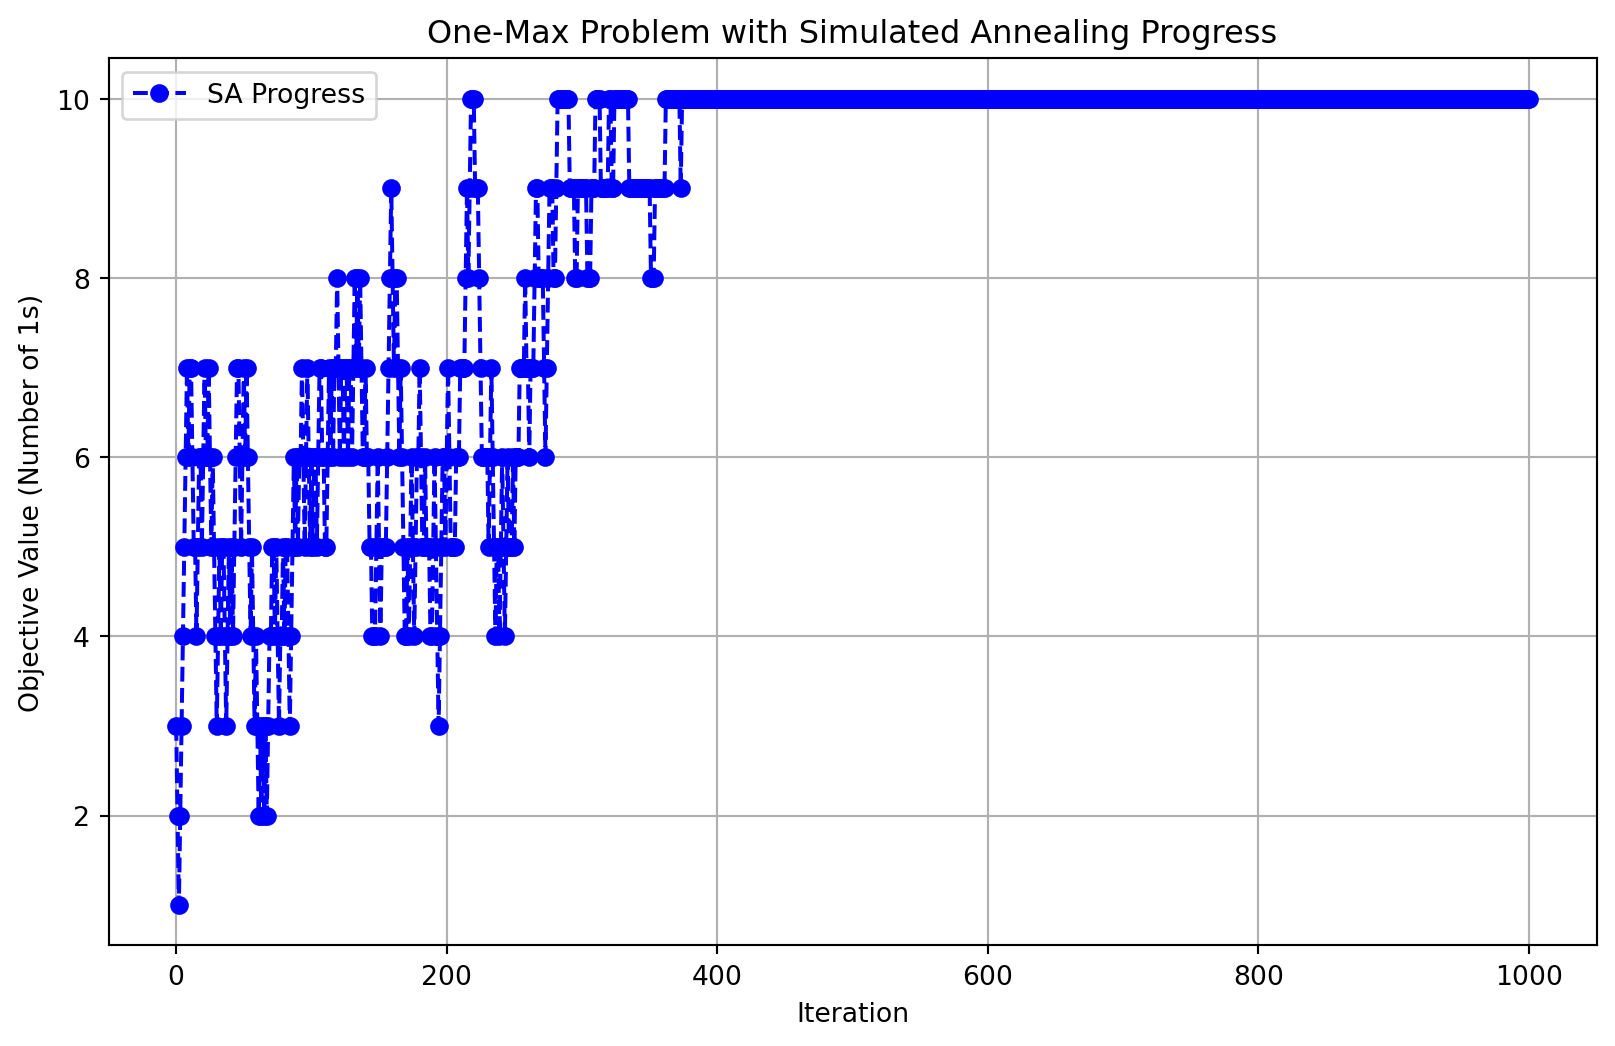
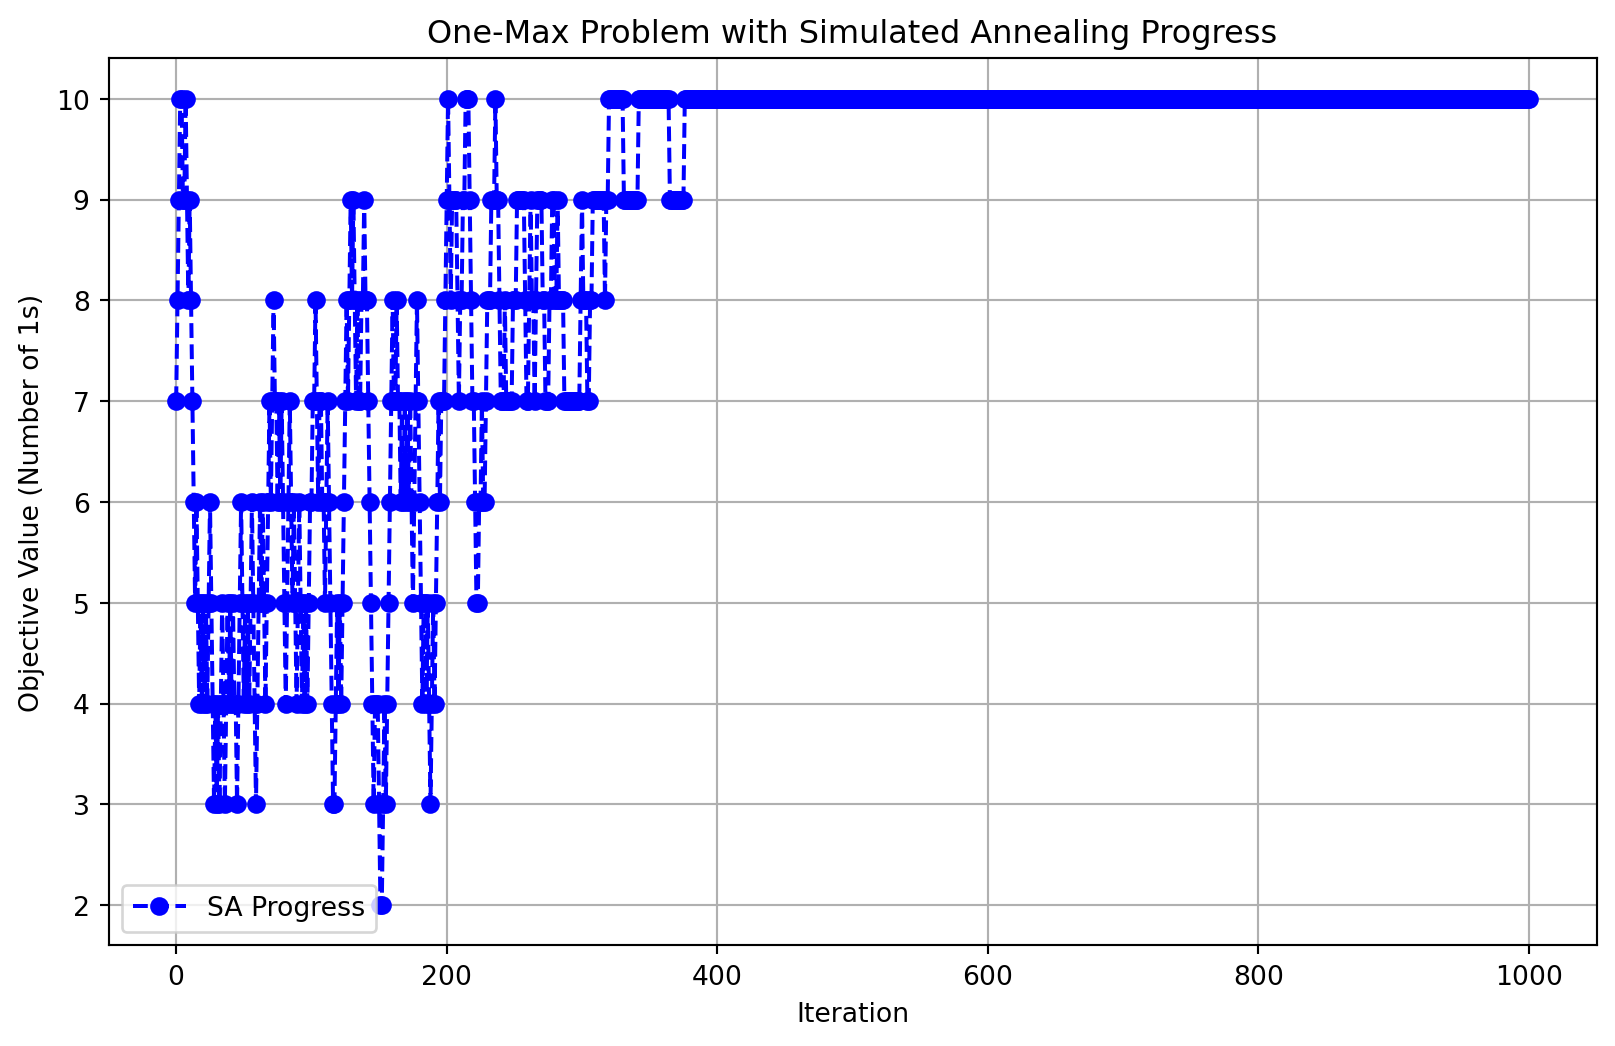
update sa

Changed region(s): [[0.031, 0.0612, 0.9907, 0.8872], [0.031, 0.2447, 0.0619, 0.3059]]

diff --git a/docs/sa.html b/docs/sa.html
@@ -568,13 +568,13 @@ window.Quarto = {
 </ul>
 <section id="examples-of-how-value-can-change" class="level2">
 <h2 class="anchored" data-anchor-id="examples-of-how-value-can-change">Examples of How Value Can Change</h2>
-<div class="quarto-figure quarto-figure-center">
-<figure class="figure">
-<p><img src="Pictures/sa3.png" title="SA Changing Values" class="img-fluid figure-img"></p>
-<figcaption>SA Changing Values</figcaption>
-</figure>
-</div>
+<p><img src="Pictures/sa3.png" title="SA Changing Values" class="img-fluid" alt="SA Changing Values"> * Minimization: + If <span class="math inline">\(\Delta_f^{\text{min}}\)</span> is negative, we always accept (better solution). + If <span class="math inline">\(\Delta_f^{\text{min}}\)</span> is positive, accept with probability <span class="math inline">\(paminp_a^{\text{min}}pamin\)</span>.</p>
 <ul>
+<li>Maximization:
+<ul>
+<li>If <span class="math inline">\(\Delta_f^{\text{max}}\)</span> is positive, we always accept (better solution).</li>
+<li>If <span class="math inline">\(\Delta_f^{\text{max}}\)</span> is negative, accept with probability <span class="math inline">\(pamaxp_a^{\text{max}}\)</span>.</li>
+</ul></li>
 <li>In this case, <span class="math inline">\(p_a^{\text{max}}\)</span>=.329 and 0.007 for <span class="math inline">\({\Psi_t}\)</span> = .9 and 0.2, respectively. This indicates that a lower temperature Image implies a smaller probability Image to accept a non-improving candidate solution as the current solution.</li>
 <li>The value of <span class="math inline">\(f_s\)</span> goes from 2.0 to 1.1, the value of <span class="math inline">\(p_a^{\text{max}}\)</span> goes from 0.329 up to 0.895. This means that in case <span class="math inline">\(f(\nu)\)</span> is worse than <span class="math inline">\(f(s)\)</span>, a smaller <span class="math inline">\(\Delta_f^{\text{max}}\)</span> implies a higher probability <span class="math inline">\(p_a^{\text{max}}\)</span> to accept a non-improving candidate solution as the current solution.</li>
 <li>Higher temperatures} (<span class="math inline">\(\Psi_t = 0.9\)</span>) allow higher acceptance of worse solutions.
@@ -636,7 +636,7 @@ window.Quarto = {
 <h1>Making a Model: One Max with SA</h1>
 <section id="imports-global-variables" class="level2">
 <h2 class="anchored" data-anchor-id="imports-global-variables">Imports, Global Variables</h2>
-<div id="305c6d90" class="cell" data-execution_count="1">
+<div id="2ff1ffc0" class="cell" data-execution_count="1">
 <div class="sourceCode cell-code" id="cb1"><pre class="sourceCode python code-with-copy"><code class="sourceCode python"><span id="cb1-1"><a href="#cb1-1" aria-hidden="true" tabindex="-1"></a><span class="co">##Simulated Annealing One-Max Example</span></span>
 <span id="cb1-2"><a href="#cb1-2" aria-hidden="true" tabindex="-1"></a><span class="im">import</span> numpy <span class="im">as</span> np</span>
 <span id="cb1-3"><a href="#cb1-3" aria-hidden="true" tabindex="-1"></a><span class="im">import</span> random</span>
@@ -658,7 +658,7 @@ window.Quarto = {
 <li>The initial solution is evaluated using the One-Max function (evaluate) to calculate its fitness (i.e., the sum of 1’s in the array).</li>
 <li>The function returns the initial solution and its evaluated fitness.</li>
 </ul>
-<div id="471284f9" class="cell" data-execution_count="2">
+<div id="9faebe02" class="cell" data-execution_count="2">
 <div class="sourceCode cell-code" id="cb2"><pre class="sourceCode python code-with-copy"><code class="sourceCode python"><span id="cb2-1"><a href="#cb2-1" aria-hidden="true" tabindex="-1"></a><span class="co"># Initialization function (I)</span></span>
 <span id="cb2-2"><a href="#cb2-2" aria-hidden="true" tabindex="-1"></a><span class="kw">def</span> init_sa(num_bits):</span>
 <span id="cb2-3"><a href="#cb2-3" aria-hidden="true" tabindex="-1"></a>    sol <span class="op">=</span> np.random.randint(<span class="dv">0</span>, <span class="dv">2</span>, num_bits)</span>
@@ -671,7 +671,7 @@ window.Quarto = {
 <li>This is done by randomly selecting an index in the binary array and toggling the bit (changing 1 to 0 or 0 to 1).</li>
 <li>This new solution represents the neighboring candidate that will be evaluated next, which is a small random change to the current solution.</li>
 </ul>
-<div id="aa450547" class="cell" data-execution_count="3">
+<div id="d3eef23d" class="cell" data-execution_count="3">
 <div class="sourceCode cell-code" id="cb3"><pre class="sourceCode python code-with-copy"><code class="sourceCode python"><span id="cb3-1"><a href="#cb3-1" aria-hidden="true" tabindex="-1"></a><span class="co"># Transition function (T)</span></span>
 <span id="cb3-2"><a href="#cb3-2" aria-hidden="true" tabindex="-1"></a><span class="kw">def</span> transit(sol):</span>
 <span id="cb3-3"><a href="#cb3-3" aria-hidden="true" tabindex="-1"></a>    new_sol <span class="op">=</span> sol.copy()</span>
@@ -695,7 +695,7 @@ window.Quarto = {
 <ul>
 <li>The evaluate function calculates the fitness of the current solution by summing up the number of 1’s in the binary array (sol).The One-Max problem aims to maximize this value, with the goal being to find the solution with all bits set to 1.</li>
 </ul>
-<div id="6c7608da" class="cell" data-execution_count="4">
+<div id="1bd65a06" class="cell" data-execution_count="4">
 <div class="sourceCode cell-code" id="cb4"><pre class="sourceCode python code-with-copy"><code class="sourceCode python"><span id="cb4-1"><a href="#cb4-1" aria-hidden="true" tabindex="-1"></a><span class="co"># Evaluation Function (E): One-max function</span></span>
 <span id="cb4-2"><a href="#cb4-2" aria-hidden="true" tabindex="-1"></a><span class="kw">def</span> evaluate(sol):</span>
 <span id="cb4-3"><a href="#cb4-3" aria-hidden="true" tabindex="-1"></a>    <span class="cf">return</span> np.<span class="bu">sum</span>(sol)</span></code><button title="Copy to Clipboard" class="code-copy-button"><i class="bi"></i></button></pre></div>
@@ -713,7 +713,7 @@ window.Quarto = {
 </ul></li>
 <li>The function returns True if the new solution is accepted, otherwise False.</li>
 </ul>
-<div id="d6ec4f91" class="cell" data-execution_count="5">
+<div id="86cb10ec" class="cell" data-execution_count="5">
 <div class="sourceCode cell-code" id="cb5"><pre class="sourceCode python code-with-copy"><code class="sourceCode python"><span id="cb5-1"><a href="#cb5-1" aria-hidden="true" tabindex="-1"></a><span class="co"># Determination function for SA (D)</span></span>
 <span id="cb5-2"><a href="#cb5-2" aria-hidden="true" tabindex="-1"></a><span class="kw">def</span> determine(neighbor_value, current_value, temperature):</span>
 <span id="cb5-3"><a href="#cb5-3" aria-hidden="true" tabindex="-1"></a>    <span class="cf">if</span> neighbor_value <span class="op">&gt;</span> current_value:</span>
@@ -732,21 +732,22 @@ window.Quarto = {
 <section id="run-function" class="level3">
 <h3 class="anchored" data-anchor-id="run-function">Run Function</h3>
 <ul>
-<li>The init_sa function generates a random initial solution (current_sol) with a binary array of length num_bits.</li>
-<li>This solution is evaluated using the evaluate function, which counts the number of 1’s in the array.</li>
-<li>The current solution is also set as the best solution initially, since no other solutions have been explored yet.</li>
-<li>The temperature is set to initial_temp, which controls the probability of accepting worse solutions in the early stages of the algorithm.</li>
-<li>The list value_history is initialized to store the value (fitness) of the current solution over time.</li>
-<li>This main loop runs until the temperature drops below min_temp (0.0001) or the maximum number of evals (max_evals, default 1000) is reached. Each evaluation represents one step in the simulated annealing process.</li>
-<li>A neighboring solution (neighbor_sol) is generated by the transit function, which randomly flips one bit in the current solution. * This represents exploring a new area of the search space close to the current solution.</li>
-<li>The neighboring solution is evaluated using the evaluate function, which calculates its fitness (i.e., the number of 1’s in the binary array). This value is compared to the current solution’s fitness.</li>
-<li>The determine function decides whether to accept the neighboring solution</li>
-<li>The current solution’s fitness is appended to value_history to keep a record of the solution’s fitness across evaluations. This will later be used to plot the progress of the algorithm.</li>
-<li>After each evaluation, the temperature is reduced by multiplying it by the cooling_rate (default 0.99). This cooling process gradually reduces the probability of accepting worse solutions, making the algorithm behave more like greedy hill climbing toward the end.</li>
-<li>The number of evals is incremented.</li>
-<li>After the loop terminates (either because the temperature has cooled sufficiently or the maximum number of evaluations has been reached), the function returns:best_sol: The best solution found during the process.best_value: The fitness value of the best solution.value_history: A list of the fitness values over time, useful for visualizing the algorithm’s progress.</li>
+<li><p>The init_sa function generates a random initial solution (current_sol) with a binary array of length num_bits.</p></li>
+<li><p>This solution is evaluated using the evaluate function, which counts the number of 1’s in the array.</p></li>
+<li><p>The current solution is also set as the best solution initially, since no other solutions have been explored yet.</p></li>
+<li><p>The temperature is set to initial_temp, which controls the probability of accepting worse solutions in the early stages of the algorithm.</p></li>
+<li><p>The list value_history is initialized to store the value (fitness) of the current solution over time.</p></li>
+<li><p>This main loop runs until the temperature drops below min_temp (0.0001) or the maximum number of evals (max_evals, default 1000) is reached. Each evaluation represents one step in the simulated annealing process.</p></li>
+<li><p>A neighboring solution (neighbor_sol) is generated by the transit function, which randomly flips one bit in the current solution.</p></li>
+<li><p>This represents exploring a new area of the search space close to the current solution.</p></li>
+<li><p>The neighboring solution is evaluated using the evaluate function, which calculates its fitness (i.e., the number of 1’s in the binary array). This value is compared to the current solution’s fitness.</p></li>
+<li><p>The determine function decides whether to accept the neighboring solution</p></li>
+<li><p>The current solution’s fitness is appended to value_history to keep a record of the solution’s fitness across evaluations. This will later be used to plot the progress of the algorithm.</p></li>
+<li><p>After each evaluation, the temperature is reduced by multiplying it by the cooling_rate (default 0.99). This cooling process gradually reduces the probability of accepting worse solutions, making the algorithm behave more like greedy hill climbing toward the end.</p></li>
+<li><p>The number of evals is incremented.</p></li>
+<li><p>After the loop terminates (either because the temperature has cooled sufficiently or the maximum number of evaluations has been reached), the function returns: 1) best_sol: The best solution found during the process. 2) best_value: The fitness value of the best solution. 3) value_history: A list of the fitness values over time, useful for visualizing the algorithm’s progress.</p></li>
 </ul>
-<div id="82230db3" class="cell" data-execution_count="6">
+<div id="6cd61d17" class="cell" data-execution_count="6">
 <div class="sourceCode cell-code" id="cb6"><pre class="sourceCode python code-with-copy"><code class="sourceCode python"><span id="cb6-1"><a href="#cb6-1" aria-hidden="true" tabindex="-1"></a><span class="co"># Simulated Annealing (SA) function</span></span>
 <span id="cb6-2"><a href="#cb6-2" aria-hidden="true" tabindex="-1"></a><span class="kw">def</span> simulated_annealing(num_bits):</span>
 <span id="cb6-3"><a href="#cb6-3" aria-hidden="true" tabindex="-1"></a>    current_sol, current_value <span class="op">=</span> init_sa(num_bits)</span>
@@ -788,7 +789,7 @@ window.Quarto = {
 <li>The temperature gradually cools down, reducing the chance of accepting worse solutions as the algorithm progresses.</li>
 <li>Finally, the results are printed and plotted for visual analysis.</li>
 </ul>
-<div id="dc42681d" class="cell" data-execution_count="7">
+<div id="a985cf98" class="cell" data-execution_count="7">
 <div class="sourceCode cell-code" id="cb7"><pre class="sourceCode python code-with-copy"><code class="sourceCode python"><span id="cb7-1"><a href="#cb7-1" aria-hidden="true" tabindex="-1"></a><span class="co"># Main execution</span></span>
 <span id="cb7-2"><a href="#cb7-2" aria-hidden="true" tabindex="-1"></a>start_time <span class="op">=</span> time.time()</span>
 <span id="cb7-3"><a href="#cb7-3" aria-hidden="true" tabindex="-1"></a>best_sol, best_value, value_history <span class="op">=</span> simulated_annealing(num_bits)</span>
@@ -799,7 +800,7 @@ window.Quarto = {
 </section>
 <section id="output" class="level2">
 <h2 class="anchored" data-anchor-id="output">Output</h2>
-<div id="de744698" class="cell" data-execution_count="8">
+<div id="ba7c400a" class="cell" data-execution_count="8">
 <div class="sourceCode cell-code" id="cb8"><pre class="sourceCode python code-with-copy"><code class="sourceCode python"><span id="cb8-1"><a href="#cb8-1" aria-hidden="true" tabindex="-1"></a><span class="co"># Output results (O)</span></span>
 <span id="cb8-2"><a href="#cb8-2" aria-hidden="true" tabindex="-1"></a><span class="bu">print</span>(<span class="ss">f"Best solution: </span><span class="sc">{</span>best_sol<span class="sc">}</span><span class="ss">"</span>)</span>
 <span id="cb8-3"><a href="#cb8-3" aria-hidden="true" tabindex="-1"></a><span class="bu">print</span>(<span class="ss">f"Best value (number of 1s): </span><span class="sc">{</span>best_value<span class="sc">}</span><span class="ss">"</span>)</span>
@@ -817,7 +818,7 @@ window.Quarto = {
 <div class="cell-output cell-output-stdout">
 <pre><code>Best solution: [1 1 1 1 1 1 1 1 1 1]
 Best value (number of 1s): 10
-Execution time: 0.007513 seconds</code></pre>
+Execution time: 0.014504 seconds</code></pre>
 </div>
 <div class="cell-output cell-output-display">
 <div>
@@ -839,7 +840,7 @@ Execution time: 0.007513 seconds</code></pre>
 </ul>
 <section id="example-results" class="level2">
 <h2 class="anchored" data-anchor-id="example-results">Example Results</h2>
-<div id="fdde1537" class="cell" data-execution_count="9">
+<div id="2722ac2a" class="cell" data-execution_count="9">
 <div class="sourceCode cell-code" id="cb10"><pre class="sourceCode python code-with-copy"><code class="sourceCode python"><span id="cb10-1"><a href="#cb10-1" aria-hidden="true" tabindex="-1"></a><span class="im">import</span> numpy <span class="im">as</span> np</span>
 <span id="cb10-2"><a href="#cb10-2" aria-hidden="true" tabindex="-1"></a><span class="im">import</span> random</span>
 <span id="cb10-3"><a href="#cb10-3" aria-hidden="true" tabindex="-1"></a><span class="im">import</span> math</span>
@@ -934,9 +935,9 @@ Execution time: 0.007513 seconds</code></pre>
 <span id="cb10-92"><a href="#cb10-92" aria-hidden="true" tabindex="-1"></a>plt.grid(<span class="va">True</span>)</span>
 <span id="cb10-93"><a href="#cb10-93" aria-hidden="true" tabindex="-1"></a>plt.show()</span></code><button title="Copy to Clipboard" class="code-copy-button"><i class="bi"></i></button></pre></div>
 <div class="cell-output cell-output-stdout">
-<pre><code>Optimal x: 0.0012025215176116877
-Optimal value: 0.004887096964573789
-Execution time: 0.012532 seconds</code></pre>
+<pre><code>Optimal x: 0.0021528049168269003
+Optimal value: 0.008858026770152794
+Execution time: 0.016262 seconds</code></pre>
 </div>
 <div class="cell-output cell-output-display">
 <div>
@@ -988,7 +989,7 @@ Execution time: 0.012532 seconds</code></pre>
 </section>
 <section id="portfolio-diversification-with-sa" class="level1">
 <h1>Portfolio Diversification With SA</h1>
-<div id="67cf1270" class="cell" data-execution_count="10">
+<div id="c135c772" class="cell" data-execution_count="10">
 <div class="sourceCode cell-code" id="cb12"><pre class="sourceCode python code-with-copy"><code class="sourceCode python"><span id="cb12-1"><a href="#cb12-1" aria-hidden="true" tabindex="-1"></a><span class="co">#Simulated Annealing Finance Example</span></span>
 <span id="cb12-2"><a href="#cb12-2" aria-hidden="true" tabindex="-1"></a></span>
 <span id="cb12-3"><a href="#cb12-3" aria-hidden="true" tabindex="-1"></a><span class="im">import</span> yfinance <span class="im">as</span> yf</span>
@@ -1093,29 +1094,52 @@ Execution time: 0.012532 seconds</code></pre>
 <span id="cb12-102"><a href="#cb12-102" aria-hidden="true" tabindex="-1"></a><span class="bu">print</span>(<span class="ss">f"Best Sharpe Ratio: </span><span class="sc">{</span>best_sharpe<span class="sc">:.4f}</span><span class="ss">"</span>)</span>
 <span id="cb12-103"><a href="#cb12-103" aria-hidden="true" tabindex="-1"></a><span class="bu">print</span>(<span class="ss">f"Execution time: </span><span class="sc">{</span>execution_time<span class="sc">:.6f}</span><span class="ss"> seconds"</span>)</span></code><button title="Copy to Clipboard" class="code-copy-button"><i class="bi"></i></button></pre></div>
 <div class="cell-output cell-output-stderr">
-<pre><code>[                       0%                       ][**********            20%                       ]  2 of 10 completed[**************        30%                       ]  3 of 10 completed[*******************   40%                       ]  4 of 10 completed[*******************   40%                       ]  4 of 10 completed[**********************60%****                   ]  6 of 10 completed[**********************70%*********              ]  7 of 10 completed[**********************80%*************          ]  8 of 10 completed[**********************90%******************     ]  9 of 10 completed[*********************100%***********************]  10 of 10 completed</code></pre>
+<pre><code>[                       0%                       ][**********            20%                       ]  2 of 10 completed[**************        30%                       ]  3 of 10 completed[**************        30%                       ]  3 of 10 completed[**********************50%                       ]  5 of 10 completed[**********************60%****                   ]  6 of 10 completed[**********************70%*********              ]  7 of 10 completed[**********************70%*********              ]  7 of 10 completed[**********************90%******************     ]  9 of 10 completed[*********************100%***********************]  10 of 10 completed
+
+10 Failed downloads:
+['NFLX', 'MSFT', 'GOOGL', 'BA', 'AAPL', 'AMZN', 'TSLA', 'NVDA', 'META', 'DIS']: RuntimeError('*** YAHOO! FINANCE IS CURRENTLY DOWN! ***\nOur engineers are working quickly to resolve the issue. Thank you for your patience.')
+c:\Users\pamel\Documents\BUAD5042-Heuristics\Project\.conda\Lib\site-packages\numpy\lib\function_base.py:520: RuntimeWarning:
+
+Mean of empty slice.
+
+c:\Users\pamel\Documents\BUAD5042-Heuristics\Project\.conda\Lib\site-packages\numpy\core\_methods.py:121: RuntimeWarning:
+
+invalid value encountered in divide
+
+c:\Users\pamel\Documents\BUAD5042-Heuristics\Project\.conda\Lib\site-packages\pandas\core\frame.py:11211: RuntimeWarning:
+
+Degrees of freedom &lt;= 0 for slice
+
+c:\Users\pamel\Documents\BUAD5042-Heuristics\Project\.conda\Lib\site-packages\numpy\lib\function_base.py:2748: RuntimeWarning:
+
+divide by zero encountered in divide
+
+c:\Users\pamel\Documents\BUAD5042-Heuristics\Project\.conda\Lib\site-packages\numpy\lib\function_base.py:2748: RuntimeWarning:
+
+invalid value encountered in multiply
+</code></pre>
 </div>
 <div class="cell-output cell-output-display">
 <div>
 <figure class="figure">
-<p><img src="sa_files/figure-html/cell-11-output-2.png" width="812" height="523" class="figure-img"></p>
+<p><img src="sa_files/figure-html/cell-11-output-2.png" width="832" height="523" class="figure-img"></p>
 </figure>
 </div>
 </div>
 <div class="cell-output cell-output-stdout">
 <pre><code>Optimized Portfolio:
-AAPL: 0.0763
-GOOGL: 0.0000
-MSFT: 0.0025
-AMZN: 0.2219
-TSLA: 0.0010
-NFLX: 0.1822
-NVDA: 0.0289
-META: 0.2962
-DIS: 0.1910
-BA: 0.0000
-Best Sharpe Ratio: 2.7566
-Execution time: 0.085160 seconds</code></pre>
+AAPL: 0.0774
+GOOGL: 0.0342
+MSFT: 0.1530
+AMZN: 0.0613
+TSLA: 0.1347
+NFLX: 0.1646
+NVDA: 0.1131
+META: 0.1674
+DIS: 0.0146
+BA: 0.0798
+Best Sharpe Ratio: nan
+Execution time: 0.122881 seconds</code></pre>
 </div>
 </div>
 <section id="our-hill-climbing-finance-model-was-better.-why" class="level2">
